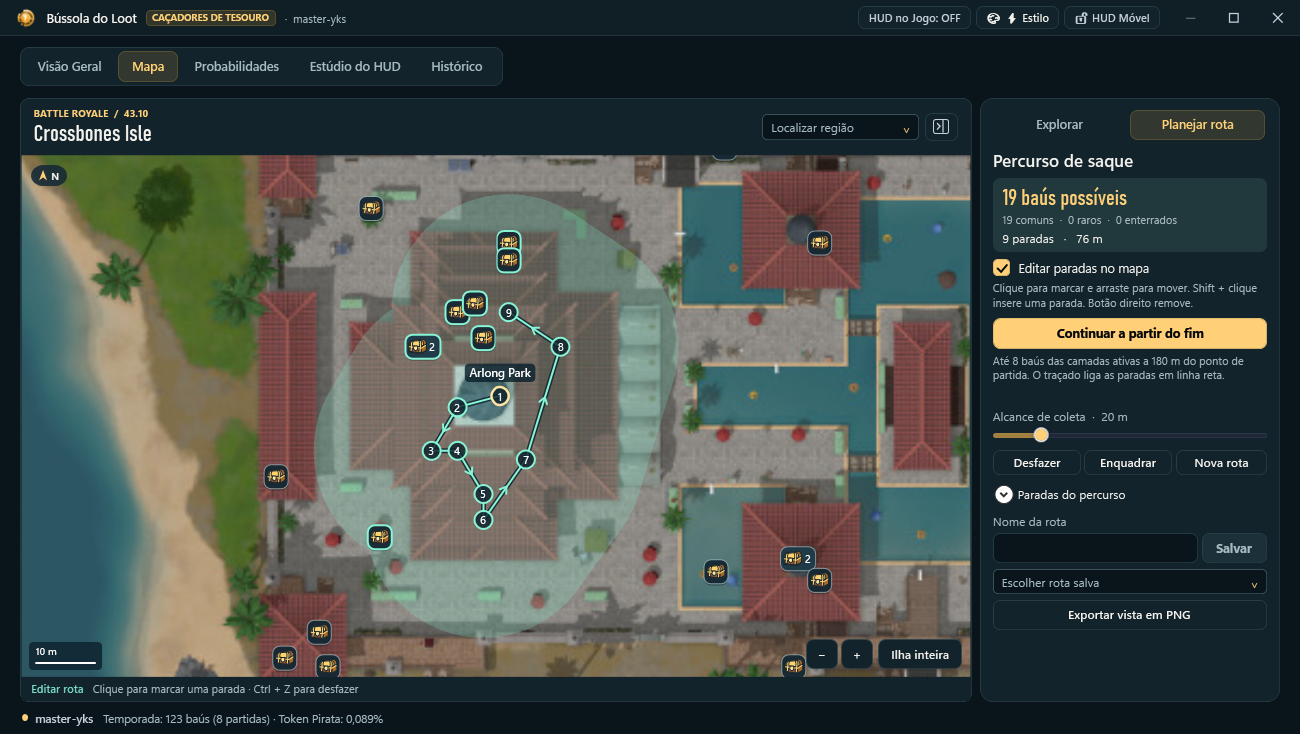
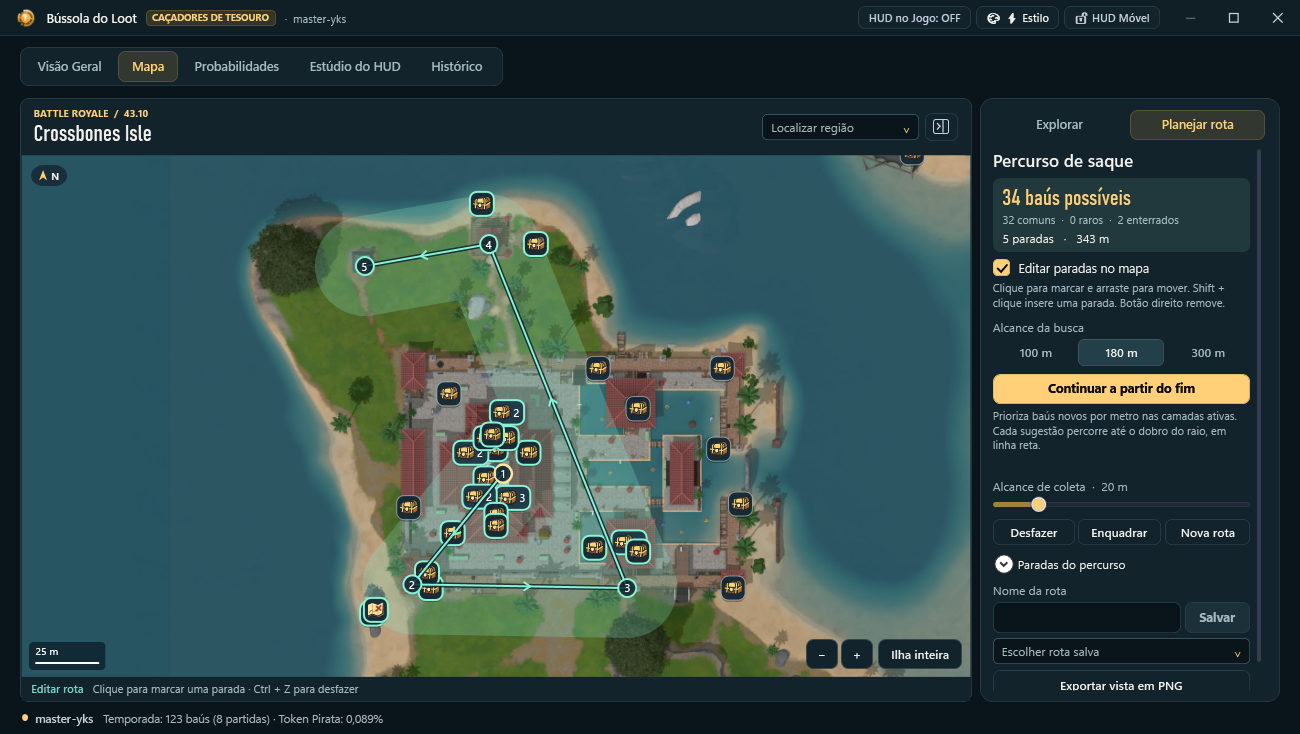
Planeja rotas por cobertura de baús e distância disponível

diff --git a/src/ChestCounter.Gui/IslandPlanner.xaml b/src/ChestCounter.Gui/IslandPlanner.xaml
@@ -94,7 +94,7 @@
                 <StackPanel Grid.Row="1" Orientation="Horizontal" HorizontalAlignment="Right" VerticalAlignment="Bottom" Margin="8">
                     <Button Content="−" AutomationProperties.Name="Reduzir zoom" Click="ZoomOut" Style="{StaticResource Quiet}" Width="32" Padding="2,0"/>
                     <Button Content="+" AutomationProperties.Name="Ampliar mapa" Click="ZoomIn" Style="{StaticResource Quiet}" Width="32" Padding="2,0" Margin="3,0,5,0"/>
-                    <Button Content="Ilha inteira" Click="Fit" Style="{StaticResource Quiet}"/>
+                    <Button Content="Ilha inteira" ToolTip="Home volta à ilha. Com o mapa em foco, use as setas para navegar e + ou − para ampliar ou reduzir." Click="Fit" Style="{StaticResource Quiet}"/>
                 </StackPanel>
                 <Border Grid.Row="2" Background="{StaticResource Card}" Padding="10,5">
                     <DockPanel><TextBlock x:Name="MapMode" DockPanel.Dock="Left" Foreground="{StaticResource Gem}" FontWeight="SemiBold" FontSize="11" Margin="0,0,10,0"/>
@@ -137,11 +137,17 @@
                             </Border>
                             <CheckBox x:Name="Edit" Content="Editar paradas no mapa" IsChecked="True" Checked="EditChanged" Unchecked="EditChanged"/>
                             <TextBlock Text="Clique para marcar e arraste para mover. Shift + clique insere uma parada. Botão direito remove." TextWrapping="Wrap" Style="{StaticResource Label}" Margin="0,4,0,9" FontSize="11"/>
+                            <TextBlock Text="Alcance da busca" Style="{StaticResource Label}" Margin="0,1,0,4"/>
+                            <UniformGrid Columns="3" Margin="0,0,0,7">
+                                <RadioButton x:Name="ShortRoute" GroupName="range" Content="100 m" Style="{StaticResource Pill}" ToolTip="Até 4 destinos e 200 m de percurso"/>
+                                <RadioButton GroupName="range" Content="180 m" IsChecked="True" Style="{StaticResource Pill}" ToolTip="Até 8 destinos e 360 m de percurso"/>
+                                <RadioButton x:Name="LongRoute" GroupName="range" Content="300 m" Style="{StaticResource Pill}" ToolTip="Até 12 destinos e 600 m de percurso"/>
+                            </UniformGrid>
                             <Button x:Name="SuggestButton" Content="Sugerir percurso de baús" Click="Suggest" Style="{StaticResource Primary}"/>
-                            <TextBlock Text="Até 8 baús das camadas ativas a 180 m do ponto de partida. O traçado liga as paradas em linha reta." TextWrapping="Wrap" Style="{StaticResource Label}" Margin="0,4,0,4" FontSize="11"/>
+                            <TextBlock Text="Prioriza baús novos por metro nas camadas ativas. Cada sugestão percorre até o dobro do raio, em linha reta." TextWrapping="Wrap" Style="{StaticResource Label}" Margin="0,4,0,4" FontSize="11"/>
                             <TextBlock x:Name="RouteStatus" Foreground="{StaticResource Gem}" TextWrapping="Wrap" FontSize="12"/>
                             <TextBlock x:Name="RadiusLabel" Style="{StaticResource Label}" Margin="0,6,0,0"/>
-                            <Slider x:Name="Radius" Minimum="5" Maximum="100" TickFrequency="5" IsSnapToTickEnabled="True" Value="20" ValueChanged="RadiusChanged" AutomationProperties.Name="Distância máxima da rota em metros"/>
+                            <Slider x:Name="Radius" Minimum="5" Maximum="100" TickFrequency="5" IsSnapToTickEnabled="True" Value="20" ValueChanged="RadiusChanged" AutomationProperties.Name="Alcance de coleta em metros"/>
                             <UniformGrid Rows="1" Margin="0,5,0,8">
                                 <Button x:Name="UndoButton" Padding="4,4" Content="Desfazer" Click="Undo" Style="{StaticResource Quiet}" Margin="0,0,3,0"/>
                                 <Button x:Name="FitButton" Padding="4,4" Content="Enquadrar" Click="FitStops" Style="{StaticResource Quiet}" Margin="0,0,3,0"/>

diff --git a/src/ChestCounter.Gui/IslandPlanner.xaml.cs b/src/ChestCounter.Gui/IslandPlanner.xaml.cs
@@ -14,15 +14,15 @@ namespace ChestCounter.Gui;
 public partial class IslandPlanner : UserControl
 {
     private sealed record Stop(double X, double Y);
-    private sealed record SavedRoute(string Name, double Radius, Stop[] Stops);
+    private sealed record SavedRoute(string Name, double Radius, Stop[] Stops, string[]? ChestLayers = null);
     private readonly string _folder;
 
     public IslandPlanner() : this(true) { }
 
-    internal IslandPlanner(bool loadSavedRoutes)
+    internal IslandPlanner(bool loadSavedRoutes, string? routeFolder = null)
     {
         InitializeComponent();
-        _folder = Path.Combine(Path.GetDirectoryName(AppConfig.Path)!, "rotas", "crossbones-" + Map.Data.Version);
+        _folder = routeFolder ?? Path.Combine(Path.GetDirectoryName(AppConfig.Path)!, "rotas", "crossbones-" + Map.Data.Version);
         Places.ItemsSource = Map.Data.Places.OrderBy(p => p.Name);
         BuildLayers();
         Map.SpotInspected += (spot, detail) =>
@@ -95,7 +95,7 @@ public partial class IslandPlanner : UserControl
         int count = Map.Data.Layers.Where(l => Map.VisibleLayers.Contains(l.Id)).Sum(l => l.Points.Length);
         LayerSummary.Text = $"{Map.VisibleLayers.Count} de {Map.Data.Layers.Length} camadas  ·  {count:N0} pontos";
         InfoCard.Visibility = Visibility.Collapsed;
-        Map.InvalidateVisual();
+        Map.MeasureRoute();
     }
     private void Preset(object sender, RoutedEventArgs e)
     {
@@ -174,9 +174,14 @@ public partial class IslandPlanner : UserControl
     private void Generate(Point start)
     {
         CancelPicking();
-        int count = Map.SuggestStops(start, 8);
-        RouteStatus.Text = count == 0 ? "Nenhum novo baú ativo em até 180 m. Escolha outro local ou mude as camadas."
-            : count == 1 ? "1 parada adicionada." : $"{count} paradas adicionadas.";
+        var (limit, meters) = ShortRoute.IsChecked == true ? (4, 100)
+            : LongRoute.IsChecked == true ? (12, 300) : (8, 180);
+        int before = Map.Nearby.Count;
+        int count = Map.SuggestStops(start, limit, meters);
+        int gain = Map.Nearby.Count - before;
+        RouteStatus.Text = count == 0
+            ? $"Nenhum baú novo em até {meters} m. Mude o alcance da busca ou as camadas."
+            : $"Trecho adicionado · +{gain} {(gain == 1 ? "baú possível" : "baús possíveis")}";
     }
     private void CloseInfo(object sender, RoutedEventArgs e) => InfoCard.Visibility = Visibility.Collapsed;
     private void FitStops(object sender, RoutedEventArgs e) => Map.FitRoute();
@@ -238,7 +243,27 @@ public partial class IslandPlanner : UserControl
                 HorizontalContentAlignment = HorizontalAlignment.Left, Margin = new Thickness(0, 1, 0, 1),
                 ToolTip = $"Centralizar na parada {i + 1}" };
             button.Click += (_, _) => Map.FocusStop(p);
-            StopList.Children.Add(button);
+            var row = new DockPanel();
+            int index = i;
+            foreach (int offset in new[] { 1, -1 })
+            {
+                int next = index + offset;
+                string action = offset < 0 ? "Antecipar" : "Adiar";
+                var move = new Button { Content = offset < 0 ? "↑" : "↓", Style = (Style)FindResource("Quiet"),
+                    Width = 26, Padding = new Thickness(0), Margin = new Thickness(2, 1, 0, 1),
+                    IsEnabled = next >= 0 && next < Map.Route.Count, ToolTip = $"{action} parada {index + 1}" };
+                AutomationProperties.SetName(move, (string)move.ToolTip);
+                move.Click += (_, _) =>
+                {
+                    var stops = Map.Route.ToArray();
+                    (stops[index], stops[next]) = (stops[next], stops[index]);
+                    Map.ReplaceRoute(stops);
+                };
+                DockPanel.SetDock(move, Dock.Right);
+                row.Children.Add(move);
+            }
+            row.Children.Add(button);
+            StopList.Children.Add(row);
         }
     }
     private void Export(object sender, RoutedEventArgs e)
@@ -293,7 +318,8 @@ public partial class IslandPlanner : UserControl
     private void Save(object sender, RoutedEventArgs e)
     {
         string name = RouteName.Text.Trim();
-        var route = new SavedRoute(name, Radius.Value, Map.Route.Select(p => new Stop(p.X, p.Y)).ToArray());
+        var route = new SavedRoute(name, Radius.Value, Map.Route.Select(p => new Stop(p.X, p.Y)).ToArray(),
+            Map.Data.Layers.Where(l => l.Chest && Map.VisibleLayers.Contains(l.Id)).Select(l => l.Id).ToArray());
         string key = Convert.ToHexString(SHA256.HashData(Encoding.UTF8.GetBytes(name.ToUpperInvariant())));
         string temp = Path.Combine(_folder, Guid.NewGuid().ToString("N") + ".tmp");
         try
@@ -315,6 +341,14 @@ public partial class IslandPlanner : UserControl
         if (Saved.SelectedItem is not SavedRoute route) return;
         CancelPicking();
         RouteName.Text = route.Name;
+        foreach (var layer in Map.Data.Layers.Where(l => l.Chest))
+        {
+            bool active = route.ChestLayers?.Contains(layer.Id) ?? true;
+            if (active) Map.VisibleLayers.Add(layer.Id);
+            else Map.VisibleLayers.Remove(layer.Id);
+            _toggles[layer.Id].IsChecked = active;
+        }
+        RefreshLayers();
         Radius.Value = route.Radius;
         Map.ReplaceRoute(route.Stops.Select(p => new Point(p.X, p.Y)));
         Map.FitRoute();

diff --git a/src/ChestCounter.Gui/IslandMap.Markers.cs b/src/ChestCounter.Gui/IslandMap.Markers.cs
@@ -130,47 +130,50 @@ public sealed partial class IslandMap
         SpotInspected?.Invoke(marker.Spots[0], marker.Spots.Length > 1 ? MarkerDescription(marker) : _regions[marker.Spots[0]].Name);
     }
 
-    internal int SuggestStops(Point origin, int limit)
+    internal int SuggestStops(Point origin, int limit, double searchMeters = 180)
     {
-        const double searchMeters = 180;
-        double r = searchMeters / Data.WidthMeters;
-        var candidates = InBounds(new Rect(origin.X - r, origin.Y - r, 2 * r, 2 * r))
-            .Where(s => s.Layer.Chest && VisibleLayers.Contains(s.Layer.Id) && (s.Position - origin).Length <= r)
-            .Select(s => s.Position).Distinct().OrderBy(p => p.X).ThenBy(p => p.Y).ToList();
-        if (candidates.Count == 0) return 0;
-        double minSpacing = 3 / Data.WidthMeters;
-        var stops = new List<Point> { origin };
-        candidates.RemoveAll(p => _route.Any(old => (p - old).Length < minSpacing));
-        while (stops.Count <= limit && candidates.Count > 0)
+        double range = searchMeters / Data.WidthMeters;
+        double reach = _radius / Data.WidthMeters;
+        double reachSquared = reach * reach;
+        var bounds = new Rect(origin.X - range, origin.Y - range, 2 * range, 2 * range);
+        var remaining = InBounds(bounds)
+            .Where(s => s.Layer.Chest && VisibleLayers.Contains(s.Layer.Id) && !_near.Contains(s)
+                && (s.Position - origin).LengthSquared <= range * range)
+            .Select(s => s.Position).OrderBy(p => p.X).ThenBy(p => p.Y).ToList();
+        if (remaining.Count == 0 || limit < 1) return 0;
+
+        var additions = new List<Point>();
+        if (_route.Count == 0) additions.Add(origin);
+        remaining.RemoveAll(p => (p - origin).LengthSquared <= reachSquared);
+        var current = origin;
+        double distanceLeft = 2 * range;
+        for (int leg = 0; leg < limit && remaining.Count > 0; leg++)
         {
-            var next = candidates.MinBy(p => (stops[^1] - p).LengthSquared);
-            candidates.RemoveAll(p => (p - next).Length < minSpacing);
-            if ((next - stops[^1]).Length >= minSpacing) stops.Add(next);
+            // A leg earns credit for every new spawn inside its collection corridor.
+            // The radius in the denominator also avoids favouring tiny hops within clusters.
+            Point best = current;
+            double bestScore = -1;
+            foreach (var target in remaining.Distinct())
+            {
+                double legLength = (target - current).Length;
+                if (legLength > distanceLeft) continue;
+                int gain = remaining.Count(p => DistanceSquared(p, current, target) <= reachSquared);
+                double score = gain / (legLength + reach);
+                if (score <= bestScore) continue;
+                best = target;
+                bestScore = score;
+            }
+            if (bestScore < 0) break;
+            distanceLeft -= (best - current).Length;
+            additions.Add(best);
+            remaining.RemoveAll(p => DistanceSquared(p, current, best) <= reachSquared);
+            current = best;
         }
-        if (stops.Count == 1 && _route.Count > 0) return 0;
-        // Shorten crossing legs while keeping the chosen origin fixed (open-path 2-opt).
-        bool improved;
-        do
+        if (additions.Count > 0)
         {
-            improved = false;
-            for (int i = 1; i < stops.Count - 1; i++)
-                for (int j = i + 1; j < stops.Count; j++)
-                {
-                    double before = (stops[i - 1] - stops[i]).Length;
-                    double after = (stops[i - 1] - stops[j]).Length;
-                    if (j + 1 < stops.Count)
-                    {
-                        before += (stops[j] - stops[j + 1]).Length;
-                        after += (stops[i] - stops[j + 1]).Length;
-                    }
-                    if (after + 1e-9 >= before) continue;
-                    stops.Reverse(i, j - i + 1);
-                    improved = true;
-                }
-        } while (improved);
-        bool extend = _route.Count > 0;
-        ReplaceRoute(_route.Concat(stops.Skip(extend ? 1 : 0)).ToArray());
-        FitRoute();
-        return stops.Count - (extend ? 1 : 0);
+            ReplaceRoute(_route.Concat(additions).ToArray());
+            FitRoute();
+        }
+        return additions.Count;
     }
 }

diff --git a/src/ChestCounter.Gui/IslandMap.cs b/src/ChestCounter.Gui/IslandMap.cs
@@ -48,7 +48,7 @@ public sealed partial class IslandMap : FrameworkElement
     {
         ClipToBounds = true;
         Focusable = true;
-        using var json = Application.GetResourceStream(new Uri("Assets/Island/island.json", UriKind.Relative)).Stream;
+        using var json = Application.GetResourceStream(new Uri("/BussolaDoLoot;component/Assets/Island/island.json", UriKind.Relative)).Stream;
         Data = JsonSerializer.Deserialize<IslandData>(json)!;
         _image = ReadImage("crossbones.png");
         _ortho = ReadImage("Ortho/overview.jpg");
@@ -69,7 +69,7 @@ public sealed partial class IslandMap : FrameworkElement
 
     private static BitmapSource ReadImage(string file)
     {
-        using var stream = Application.GetResourceStream(new Uri("Assets/Island/" + file, UriKind.Relative)).Stream;
+        using var stream = Application.GetResourceStream(new Uri("/BussolaDoLoot;component/Assets/Island/" + file, UriKind.Relative)).Stream;
         var bitmap = new BitmapImage();
         bitmap.BeginInit();
         bitmap.CacheOption = BitmapCacheOption.OnLoad;
@@ -175,7 +175,7 @@ public sealed partial class IslandMap : FrameworkElement
         double t = ab.LengthSquared == 0 ? 0 : Math.Clamp(Vector.Multiply(p - a, ab) / ab.LengthSquared, 0, 1);
         return (p - (a + ab * t)).LengthSquared;
     }
-    private void MeasureRoute()
+    internal void MeasureRoute()
     {
         _near.Clear();
         LengthMeters = 0;
@@ -188,7 +188,7 @@ public sealed partial class IslandMap : FrameworkElement
             var bounds = new Rect(a, b);
             bounds.Inflate(radius, radius);
             foreach (var spot in InBounds(bounds))
-                if (spot.Layer.Chest && DistanceSquared(spot.Position, a, b) <= radius * radius)
+                if (spot.Layer.Chest && VisibleLayers.Contains(spot.Layer.Id) && DistanceSquared(spot.Position, a, b) <= radius * radius)
                     _near.Add(spot);
         }
         RouteChanged?.Invoke();
@@ -302,12 +302,15 @@ public sealed partial class IslandMap : FrameworkElement
         ReleaseMouseCapture();
         if (!_dragged && PickingOrigin && new Rect(0, 0, 1, 1).Contains(p))
         {
-            OriginPicked?.Invoke(HitMarker(e.GetPosition(this))?.World ?? p);
+            OriginPicked?.Invoke(HitMarker(e.GetPosition(this)) is { Region: null, Spots.Length: 1 } marker
+                ? marker.Spots[0].Position : p);
         }
         else if (!_dragged && !Editing && !PickingOrigin) Inspect(e.GetPosition(this));
         else if (Editing && !_dragged && _handle < 0 && new Rect(0, 0, 1, 1).Contains(p))
         {
             Remember();
+            if (HitMarker(e.GetPosition(this)) is { Region: null, Spots.Length: 1 } marker)
+                p = marker.Spots[0].Position;
             int index = _route.Count;
             if (Keyboard.Modifiers.HasFlag(ModifierKeys.Shift) && index >= 2)
                 index = Enumerable.Range(1, index - 1).MinBy(i => DistanceSquared(p, _route[i - 1], _route[i]));
@@ -323,6 +326,19 @@ public sealed partial class IslandMap : FrameworkElement
     }
     protected override void OnKeyDown(KeyEventArgs e)
     {
-        if (e.Key == Key.Z && Keyboard.Modifiers.HasFlag(ModifierKeys.Control)) { Undo(); e.Handled = true; }
+        switch (e.Key)
+        {
+            case Key.Z when Keyboard.Modifiers.HasFlag(ModifierKeys.Control): Undo(); break;
+            case Key.Add or Key.OemPlus: Zoom(1.5); break;
+            case Key.Subtract or Key.OemMinus: Zoom(1 / 1.5); break;
+            case Key.Home: ResetView(); break;
+            case Key.Left:  _center = Clamp(_center + new Vector(-64 / Scale, 0)); break;
+            case Key.Right: _center = Clamp(_center + new Vector(64 / Scale, 0)); break;
+            case Key.Up:    _center = Clamp(_center + new Vector(0, -64 / Scale)); break;
+            case Key.Down:  _center = Clamp(_center + new Vector(0, 64 / Scale)); break;
+            default: base.OnKeyDown(e); return;
+        }
+        InvalidateVisual();
+        e.Handled = true;
     }
 }

diff --git a/tests/ChestCounter.MapChecks/Program.cs b/tests/ChestCounter.MapChecks/Program.cs
@@ -1,0 +1,68 @@
+using System.IO;
+using System.Windows;
+using System.Windows.Controls;
+using ChestCounter.Gui;
+
+internal static class Program
+{
+    [STAThread]
+    private static void Main()
+    {
+        var app = new App();
+        app.InitializeComponent();
+        var folder = Directory.CreateTempSubdirectory("bussola-map-");
+        try
+        {
+            File.WriteAllText(Path.Combine(folder.FullName, "legacy.json"),
+                """{"Name":"Antiga","Radius":20,"Stops":[{"X":0.2993,"Y":0.5521}]}""");
+            var planner = new IslandPlanner(true, folder.FullName);
+            var map = planner.Map;
+            var landing = new Point(.2993, .5521);
+            foreach (var (limit, range) in new[] { (4, 100), (8, 180), (12, 300) })
+            {
+                int added = map.SuggestStops(landing, limit, range);
+                Check(added > 1 && added <= limit + 1 && map.Route[0] == landing, $"pouso e limite de destinos ({range} m)");
+                Check(map.LengthMeters <= 2 * range + 1e-6 && map.Nearby.Count > 0, $"orçamento e cobertura ({range} m)");
+                Check(map.Route.All(p => (p - landing).Length * map.Data.WidthMeters <= range + 1e-6), "raio de busca");
+                var first = map.Route.ToArray();
+                int previous = map.Nearby.Count;
+                double length = map.LengthMeters;
+                int extra = map.SuggestStops(first[^1], limit, range);
+                Check(map.Route.Take(first.Length).SequenceEqual(first), "extensão preserva as paradas anteriores");
+                Check(extra == 0 || map.Nearby.Count > previous && map.LengthMeters - length <= 2 * range + 1e-6,
+                    "extensão cobre novos baús no orçamento");
+                if (extra > 0) map.Undo();
+                Check(map.Route.SequenceEqual(first), "desfazer extensão");
+                map.Undo();
+                Check(map.Route.Count == 0 && !map.CanUndo, "desfazer sugestão inteira");
+            }
+
+            map.VisibleLayers.Clear();
+            Check(map.SuggestStops(landing, 4) == 0 && !map.CanUndo, "sem camadas, sem edição");
+            map.VisibleLayers.Add("chest");
+            map.SuggestStops(landing, 4);
+            var saved = map.Route.ToArray();
+            planner.Itinerary.IsExpanded = true;
+            var firstRow = (DockPanel)planner.StopList.Children[0];
+            ((Button)firstRow.Children[0]).RaiseEvent(new RoutedEventArgs(Button.ClickEvent));
+            Check(map.Route[0] == saved[1] && map.Route[1] == saved[0], "reordenar pelo itinerário");
+            map.Undo();
+            Check(map.Route.SequenceEqual(saved), "desfazer reordenação");
+            planner.RouteName.Text = "Só comuns";
+            planner.SaveButton.RaiseEvent(new RoutedEventArgs(Button.ClickEvent));
+            planner.NewButton.RaiseEvent(new RoutedEventArgs(Button.ClickEvent));
+            planner.Saved.SelectedIndex = 0;
+            Check(map.Route.Count == 1 && map.Route[0] == landing && map.VisibleLayers.Contains("rare_chest"), "arquivo antigo");
+            planner.Saved.SelectedIndex = 1;
+            Check(map.Route.SequenceEqual(saved) && map.VisibleLayers.SetEquals(["chest"]), "reabrir paradas e camadas");
+            Check(map.Nearby.All(s => s.Layer.Id == "chest"), "resumo segue camadas ativas");
+        }
+        finally { folder.Delete(recursive: true); }
+    }
+
+    private static void Check(bool condition, string label)
+    {
+        if (!condition) throw new InvalidOperationException(label);
+        Console.WriteLine($"OK {label}");
+    }
+}

diff --git a/docs/MANUAL.md b/docs/MANUAL.md
@@ -18,9 +18,9 @@ A aba **Mapa** abre Crossbones Isle em **Explorar**. A visão geral agrupa os ob
 
 Ao ampliar, o minimapa de 2048 × 2048 dá lugar ao terreno ortográfico da versão 43.10. A área principal da ilha usa recortes com resolução equivalente a 8192 × 8192 no quadro completo, armazenados no aplicativo. A roda amplia em torno do cursor. O botão ao lado de **Localizar região** recolhe ou abre o painel. [Minimapa e nomes das regiões](https://fortnite-api.com/v1/map?language=pt-BR) · [Terreno ortográfico da Fortiq](https://fortiq.app/fortnite-43-10-map/) · [Pontos de saque](https://lifecrisis.life/loot) · [Objetos da ilha e escala](https://fortnite.gs/map/)
 
-Em **Planejar rota**, escolha **Sugerir percurso de baús** e clique no pouso. O planejador procura até oito locais de baú das camadas ativas em um raio de 180 m, ordena as paradas por proximidade e encurta o percurso por inversão de trechos. **Continuar a partir do fim** acrescenta um novo trecho. Paredes, andares e relevo podem exigir desvios. Use a lista **Paradas do percurso** para centralizar uma parada e ver a distância desde a anterior.
+Em **Planejar rota**, escolha **Sugerir percurso de baús** e clique no pouso. Escolha 100, 180 ou 300 m para buscar até 4, 8 ou 12 destinos além do pouso. A cada trecho, o planejador considera os baús das camadas ativas dentro do alcance de coleta e prioriza o ganho de novos baús pela distância. O raio de busca parte do pouso ou da última parada. Cada sugestão limita a caminhada ao dobro desse raio (200, 360 ou 600 m). As camadas de baús ativas são salvas junto com a rota. **Continuar a partir do fim** acrescenta um novo trecho. Paredes, andares e relevo podem exigir desvios. Use a lista **Paradas do percurso** para centralizar uma parada e ver a distância desde a anterior. As setas da lista antecipam ou adiam uma parada. Com o mapa em foco, as setas do teclado deslocam a vista, + e − ajustam o zoom e Home volta à ilha.
 
-Para traçar à mão, clique para adicionar paradas, arraste para mover, use **Shift + clique** para inserir uma entre duas existentes e o botão direito para remover. **Desfazer** reverte a última edição ou sugestão inteira. O alcance de coleta conta cada registro de baú próximo do traçado uma vez, incluindo camadas ocultas. A distância é horizontal e a disponibilidade varia por partida.
+Para traçar à mão, clique para adicionar paradas, arraste para mover, use **Shift + clique** para inserir uma entre duas existentes e o botão direito para remover. **Desfazer** reverte a última edição ou sugestão inteira. O alcance de coleta conta cada registro de baú próximo do traçado uma vez, somente nas camadas ativas. A distância é horizontal e a disponibilidade varia por partida.
 
 Dê um nome ao trajeto e escolha **Salvar**. Salvar com o mesmo nome atualiza a rota em `%APPDATA%\ChestCounter\rotas`. **Enquadrar** mostra o trajeto inteiro. **Exportar vista em PNG** grava o enquadramento atual com distância e contagem de baús. Mapa, ícones e planejamento funcionam offline.
 

diff --git a/README.md b/README.md
@@ -19,9 +19,9 @@
 
 ## Planejar uma rota
 
-Abra **Mapa → Planejar rota**, escolha **Sugerir percurso de baús** e clique no ponto de pouso. O app procura até oito paradas nas camadas de baús ativas em um raio de 180 metros. Você pode arrastar uma parada, salvar a rota e exportar a vista em PNG. O mapa da temporada Caçadores de Tesouro vem no aplicativo.
+Abra **Mapa → Planejar rota**, escolha **Sugerir percurso de baús** e clique no ponto de pouso. Escolha um raio de 100, 180 ou 300 m. O planejador prioriza trechos que alcançam mais baús novos por metro. Arraste os pontos ou reordene as paradas pela lista, salve a rota e exporte a vista em PNG. O mapa da temporada Caçadores de Tesouro vem no aplicativo.
 
-![Mapa de Crossbones Isle com um percurso de exemplo e a lista de paradas](docs/imagens/mapa-rota.png)
+![Mapa de Crossbones Isle com um percurso de exemplo e o resumo de baús](docs/imagens/mapa-rota.png)
 
 ## Mostrar o contador na transmissão
 
@@ -52,7 +52,7 @@ Instale o **SDK .NET 10 x64** e abra o PowerShell na raiz deste repositório. A 
 .\scripts\Publicar-Windows.ps1
 ```
 
-O script executa as verificações de contagem, compila a interface e a CLI e grava o ZIP autossuficiente em `artifacts\`. Para rodar apenas os testes, use `dotnet run --project tests/ChestCounter.Checks -c Release`. A versão distribuída e testada para jogadores é a de .NET. O código alternativo em Rust fica em `rust/` para desenvolvimento e usa um histórico próprio. Neste ambiente, a variante gráfica em Rust compilou com a toolchain GNU, mas encerrou durante a inicialização.
+O script verifica a contagem e as rotas, compila a interface e a CLI e grava o ZIP autossuficiente em `artifacts\`. Para verificar contagem e rotas, execute `dotnet run --project tests/ChestCounter.Checks -c Release` e `dotnet run --project tests/ChestCounter.MapChecks -c Release`. A versão distribuída e testada para jogadores é a de .NET. O código alternativo em Rust fica em `rust/` para desenvolvimento e usa um histórico próprio. Neste ambiente, a variante gráfica em Rust compilou com a toolchain GNU, mas encerrou durante a inicialização.
 
 Consulte o passo a passo de exportação, as famílias de baús e as probabilidades no [manual do aplicativo](docs/MANUAL.md).
 
